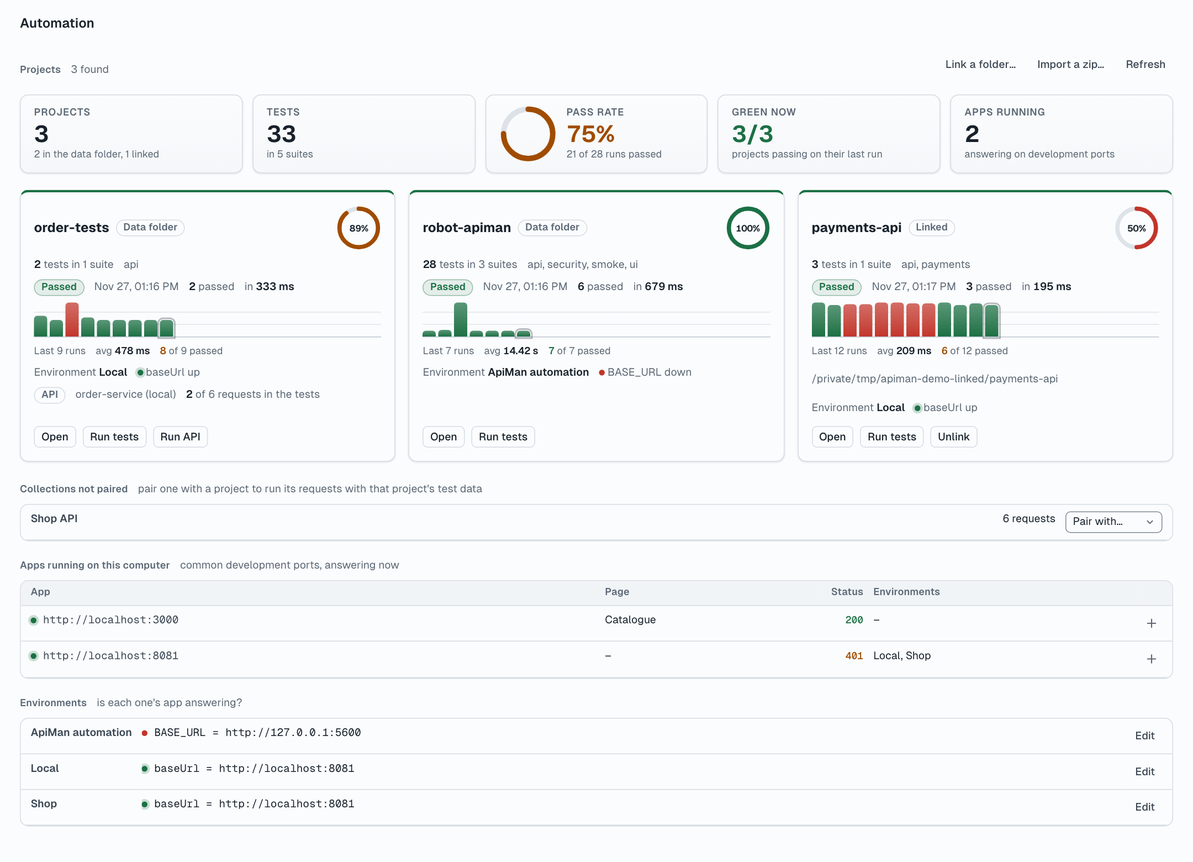
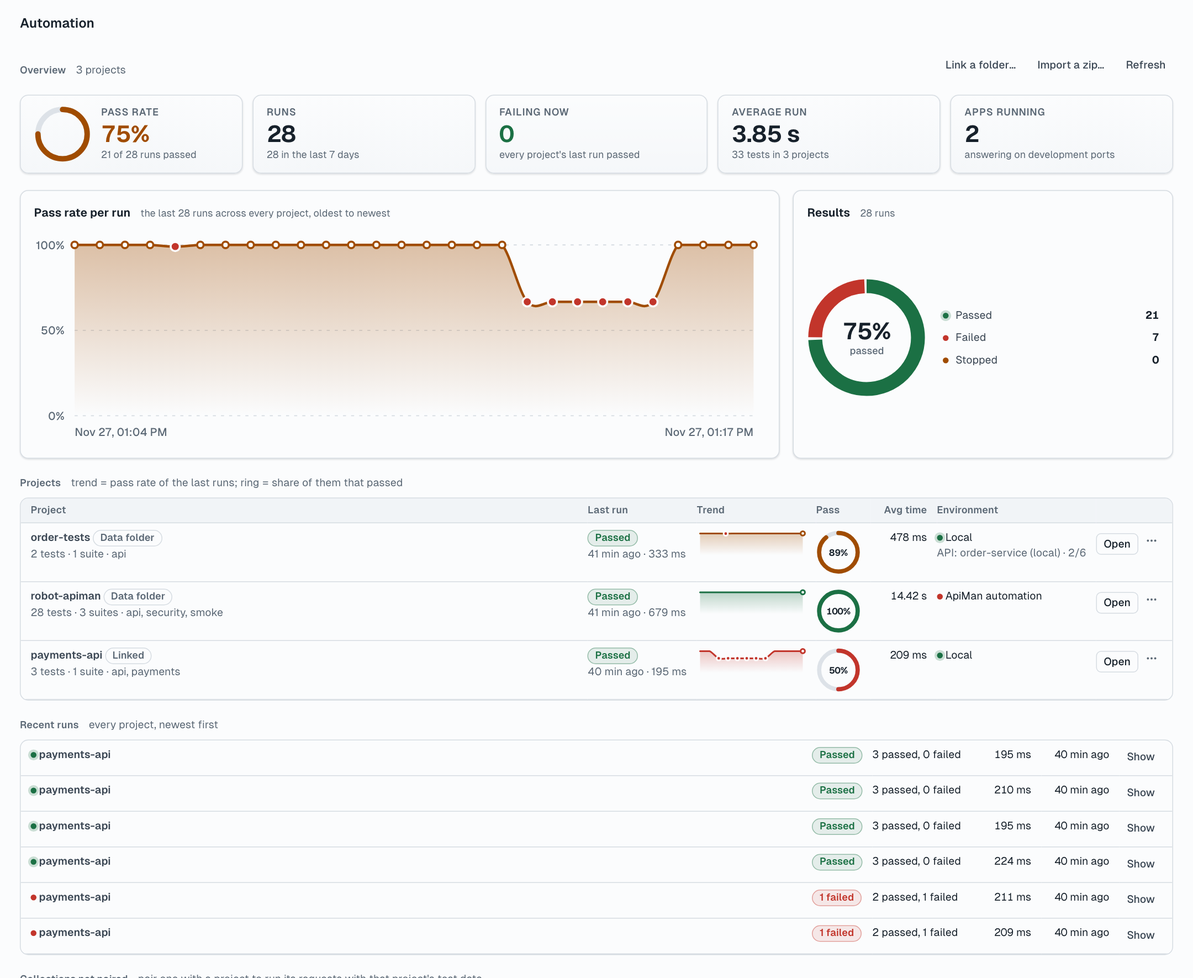
Automation dashboard as an analytics dashboard
- KPI tiles: pass rate (ring), runs (and the last 7 days), failing now, the
  average run, apps running.
- Pass rate per run: an area chart across every project (smooth line over a
  soft gradient, gridlines and axis labels, failures as red points).
- Results: a donut of passed, failed and stopped runs with a legend.
- Projects table: last run, a trend sparkline, a pass-rate ring, average time,
  environment health (+ paired collection); Open and a ... menu (Run tests, Run
  API, Unlink). Recent runs: the latest six across projects, with Show.
- Design system: Plot (area, spark, donut) and Panel components; Table .wide
  (columns from 900 px up). layout-check covers the new dashboard (634 PASS).
- README: a full screenshot of the new dashboard.

diff --git a/app.js b/app.js
@@ -216,8 +216,69 @@ const ui = {
       h('span', { class: cx('stat-value', toneOf(tone)) }, String(value)), sub ? h('span', { class: 'stat-sub', title: sub }, sub) : null));
   },
   stats(...tiles) { return h('div', { class: 'stats' }, ...tiles.flat().filter(Boolean)); },
+  /** Plot: an area chart of shares (0..1) oldest to newest: a smooth line over a soft fill, gridlines at 0/50/100%,
+   *  a point per value (failures stand out). points: [{ value, tone, title }]; xLabels: [first, last]. */
+  area(points, { label = '', tone = '', xLabels = [] } = {}) {
+    const W = 720, H = 210, L = 40, Rt = 12, T = 14, B = 28, n = points.length;
+    const x = (i) => L + (W - L - Rt) * (n === 1 ? 0.5 : i / (n - 1)), y = (v) => T + (H - T - B) * (1 - Math.max(0, Math.min(1, v)));
+    const pts = points.map((p, i) => [x(i), y(p.value)]);
+    const d = smoothPath(pts, T, H - B), gid = `pg${uid().replace(/\W/g, '').slice(0, 10)}`;
+    const grid = [0, 0.5, 1].map((v) => `<line class="gridline" x1="${L}" x2="${W - Rt}" y1="${y(v)}" y2="${y(v)}"/><text class="axis" x="${L - 10}" y="${y(v) + 4}" text-anchor="end" font-size="11">${Math.round(v * 100)}%</text>`).join('');
+    const xs = xLabels.length ? `<text class="axis" x="${L}" y="${H - 8}" font-size="11">${xmlText(xLabels[0])}</text><text class="axis" x="${W - Rt}" y="${H - 8}" text-anchor="end" font-size="11">${xmlText(xLabels[xLabels.length - 1])}</text>` : '';
+    const fill = n ? `<path class="fill" d="${d} L ${pts[n - 1][0]} ${y(0)} L ${pts[0][0]} ${y(0)} Z" fill="url(#${gid})"/>` : '';
+    const dots = points.map((p, i) => `<circle class="pt ${toneOf(p.tone) || ''}" cx="${pts[i][0]}" cy="${pts[i][1]}" r="${p.tone === 'err' || p.tone === 'warn' ? 4.5 : 3.2}"><title>${xmlText(p.title || '')}</title></circle>`).join('');
+    const el = h('div', { role: 'img', 'aria-label': label || null });
+    el.innerHTML = `<svg class="plot ${toneOf(tone) || ''}" viewBox="0 0 ${W} ${H}"><defs><linearGradient id="${gid}" x1="0" x2="0" y1="0" y2="1"><stop offset="0" stop-color="currentColor" stop-opacity=".34"/><stop offset="1" stop-color="currentColor" stop-opacity="0"/></linearGradient></defs>${grid}${xs}${fill}<path class="line" d="${d}"/>${dots}</svg>`;
+    return el;
+  },
+  /** Plot .spark: a small area trend for a table row; failures marked, the latest dotted. */
+  spark(points, { label = '', tone = '' } = {}) {
+    const W = 132, H = 34, P = 4, n = points.length;
+    const x = (i) => P + (W - 2 * P) * (n === 1 ? 0.5 : i / (n - 1)), y = (v) => P + (H - 2 * P) * (1 - Math.max(0, Math.min(1, v)));
+    const pts = points.map((p, i) => [x(i), y(p.value)]);
+    const d = smoothPath(pts, P, H - P), gid = `ps${uid().replace(/\W/g, '').slice(0, 10)}`;
+    const marks = points.map((p, i) => (p.tone === 'err' || p.tone === 'warn' || i === n - 1 ? `<circle class="pt ${toneOf(p.tone) || ''}" cx="${pts[i][0]}" cy="${pts[i][1]}" r="2.6"><title>${xmlText(p.title || '')}</title></circle>` : '')).join('');
+    const el = h('span', { role: 'img', 'aria-label': label || null, title: label || null });
+    el.innerHTML = `<svg class="plot spark ${toneOf(tone) || ''}" viewBox="0 0 ${W} ${H}"><defs><linearGradient id="${gid}" x1="0" x2="0" y1="0" y2="1"><stop offset="0" stop-color="currentColor" stop-opacity=".28"/><stop offset="1" stop-color="currentColor" stop-opacity="0"/></linearGradient></defs>${n ? `<path class="fill" d="${d} L ${pts[n - 1][0]} ${H - P} L ${pts[0][0]} ${H - P} Z" fill="url(#${gid})"/>` : ''}<path class="line" d="${d}"/>${marks}</svg>`;
+    return el;
+  },
+  /** Donut: shares of a whole. segs: [{ value, tone, label }]; center: the big text, caption under it. Returns [donut, legend]. */
+  donut(segs, { center = '', caption = '', label = '' } = {}) {
+    const total = segs.reduce((a, s) => a + (s.value || 0), 0), c = 2 * Math.PI * 15.5;
+    let at = 0;
+    const arcs = segs.filter((s) => s.value > 0).map((s) => {
+      const len = (s.value / total) * c, gap = segs.filter((q) => q.value > 0).length > 1 ? 0.8 : 0;
+      const arc = `<circle class="seg ${toneOf(s.tone) || ''}" cx="18" cy="18" r="15.5" stroke-dasharray="${Math.max(0, len - gap).toFixed(2)} ${(c - len + gap).toFixed(2)}" stroke-dashoffset="${(-at).toFixed(2)}"/>`;
+      at += len;
+      return arc;
+    }).join('');
+    const el = h('span', { class: 'donut', role: 'img', 'aria-label': label || null });
+    el.innerHTML = `<svg viewBox="0 0 36 36" aria-hidden="true">${total ? arcs : '<circle class="seg" cx="18" cy="18" r="15.5"/>'}</svg>`;
+    el.append(h('b', null, center, caption ? h('small', null, caption) : null));
+    const legend = h('div', { class: 'legend' }, ...segs.map((s) => h('div', { class: 'legend-item' }, ui.dot({ tone: s.tone }), s.label, h('b', null, String(s.value)))));
+    return [el, legend];
+  },
+  /** Panel: a titled box for a chart. */
+  panel({ title, sub = '', body = [] }) {
+    return h('section', { class: 'panel' }, h('div', { class: 'panel-head' }, h('strong', null, title), sub ? h('span', null, sub) : null), h('div', { class: 'panel-body' }, ...[body].flat().filter(Boolean)));
+  },
+  panels(...p) { return h('div', { class: 'panels' }, ...p.flat().filter(Boolean)); },
 };
 
+/** Text for inside SVG markup built as a string. */
+const xmlText = (s) => String(s ?? '').replace(/[&<>"]/g, (c) => ({ '&': '&amp;', '<': '&lt;', '>': '&gt;', '"': '&quot;' }[c]));
+/** A smooth line through points (Catmull-Rom as cubic Béziers), its bends kept between top and bottom. */
+function smoothPath(p, top, bottom) {
+  if (!p.length) return '';
+  if (p.length < 3) return p.map((q, i) => `${i ? 'L' : 'M'} ${q[0].toFixed(1)} ${q[1].toFixed(1)}`).join(' ');
+  const cy = (v) => Math.max(top, Math.min(bottom, v));
+  let d = `M ${p[0][0].toFixed(1)} ${p[0][1].toFixed(1)}`;
+  for (let i = 0; i < p.length - 1; i++) {
+    const p0 = p[i - 1] || p[i], p1 = p[i], p2 = p[i + 1], p3 = p[i + 2] || p2;
+    d += ` C ${(p1[0] + (p2[0] - p0[0]) / 6).toFixed(1)} ${cy(p1[1] + (p2[1] - p0[1]) / 6).toFixed(1)} ${(p2[0] - (p3[0] - p1[0]) / 6).toFixed(1)} ${cy(p2[1] - (p3[1] - p1[1]) / 6).toFixed(1)} ${p2[0].toFixed(1)} ${p2[1].toFixed(1)}`;
+  }
+  return d;
+}
 const uid = () => (crypto.randomUUID ? crypto.randomUUID()
   : 'id-' + Math.random().toString(36).slice(2) + Date.now().toString(36));
 
@@ -6963,76 +7024,94 @@ async function openAutomation() {
       return id && !id.startsWith('file:') ? state.envs[id] : null;
     };
     const runDur = (x) => (x.ended && x.started ? Math.max(0, Math.round((x.ended - x.started) * 1000)) : 0);
-    const card = (r) => {
+    const ago = (ts) => { const sec = Math.max(0, Date.now() / 1000 - (ts || 0)); return sec < 60 ? 'just now' : sec < 3600 ? `${Math.round(sec / 60)} min ago` : sec < 86400 ? `${Math.round(sec / 3600)} h ago` : `${Math.round(sec / 86400)} d ago`; };
+    const shareOf = (x) => { const n = (x.passed || 0) + (x.failed || 0); return n ? (x.passed || 0) / n : 0; };
+    const rateTone = (f) => (f === 1 ? 'ok' : f >= 0.7 ? 'warn' : 'err');
+    const resultPill = (x) => ui.pill(x.status === 'passed' ? 'Passed' : x.status === 'stopped' ? 'Stopped' : x.failed ? `${x.failed} failed` : 'Error', runTone(x.status));
+    /** One project as a table row: what it is, its last run, its trend, pass rate, average time, environment, actions. */
+    const projectRow = (r) => {
       const last = r.runs.find((x) => x.status !== 'running');
       const running = r.runs.find((x) => x.status === 'running');
       const env = envFor(r);
       const urls = envUrls(env);
       const runs = r.runs.filter((x) => x.status !== 'running').slice(0, 20).reverse();
       const passedN = runs.filter((x) => x.status === 'passed').length;
-      const share = runs.length ? passedN / runs.length : 0;
-      const maxDur = Math.max(1, ...runs.map(runDur));
-      const avgDur = runs.length ? Math.round(runs.reduce((a, x) => a + runDur(x), 0) / runs.length) : 0;
-      return ui.card({
-        title: r.name,
-        tone: running ? 'warn' : last ? runTone(last.status) : '',
-        badge: ui.pill(r.linked ? 'Linked' : 'Data folder', 'muted'),
-        dot: running ? ui.dot({ tone: 'warn', label: 'Running now' }) : null,
-        ring: !running && runs.length ? ui.ring(share, { tone: share === 1 ? 'ok' : share >= 0.7 ? 'warn' : 'err', label: `${passedN} of ${runs.length} recent runs passed` }) : null,
-        body: [
-          r.error ? ui.note(r.error, 'err') : ui.meta([
-            h('span', null, ui.value(String(r.tests || 0)), ` test${(r.tests || 0) === 1 ? '' : 's'} in ${r.suites || 0} suite${(r.suites || 0) === 1 ? '' : 's'}`),
-            r.tags && r.tags.length ? h('span', null, r.tags.slice(0, 4).join(', ')) : null,
-          ].filter(Boolean)),
-          last ? ui.meta([h('span', null, ui.pill(last.status === 'passed' ? 'Passed' : last.status === 'stopped' ? 'Stopped' : last.failed ? `${last.failed} failed` : 'Error', runTone(last.status))),
-            h('span', null, fmtWhen(last.started)), h('span', null, ui.value(String(last.passed || 0)), ' passed'), runDur(last) ? h('span', null, 'in ', ui.value(fmtMs(runDur(last)))) : null].filter(Boolean)) : ui.hint('Not run yet.'),
-          // each bar a run: its height how long it took, its colour how it ended (so a flat green run of passes still tells you something)
-          runs.length > 1 ? ui.chart(runs.map((x, i) => ({ value: Math.max(0.16, Math.sqrt(runDur(x) / maxDur)), /* square root: one slow run doesn't flatten the rest */ tone: runTone(x.status), on: i === runs.length - 1,
-            title: `${fmtWhen(x.started)}: ${x.status}, ${x.passed || 0} passed, ${x.failed || 0} failed, ${fmtMs(runDur(x))}` })), { small: true, label: `Last ${runs.length} runs: duration and result` }) : null,
-          runs.length > 1 ? ui.meta([h('span', null, `Last ${runs.length} runs`), h('span', null, 'avg ', ui.value(fmtMs(avgDur))), h('span', null, ui.value(String(passedN), share === 1 ? 'ok' : 'warn'), ` of ${runs.length} passed`)]) : null,
-          r.linked ? ui.path(r.path) : null,
-          env ? ui.meta([h('span', null, 'Environment ', ui.value(env.name)), ...urls.slice(0, 2).map((u) => {
-            const c = up.get(u.url);
-            return h('span', { title: u.url }, ui.dot({ tone: c && c.up ? 'ok' : 'err', label: c && c.up ? 'Answering' : 'Not answering' }), ` ${u.key} ${c && c.up ? 'up' : 'down'}`);
-          })]) : ui.hint(r.keys && r.keys.length ? `Needs ${r.keys.slice(0, 4).join(', ')}: pick an environment when you open it.` : 'Needs no environment.'),
-          pairs.get(r.id) ? ui.meta([h('span', null, ui.pill('API', 'muted')), h('span', null, (state.colList.find((c) => c.id === pairs.get(r.id).cid) || {}).name || ''),
-            h('span', null, ui.value(String(pairs.get(r.id).covered.size)), ` of ${pairs.get(r.id).total} requests in the tests`)]) : null,
-        ].filter(Boolean),
-        actions: [
+      const f = runs.length ? passedN / runs.length : 0;
+      const avg = runs.length ? Math.round(runs.reduce((a, x) => a + runDur(x), 0) / runs.length) : 0;
+      const pr = pairs.get(r.id);
+      const envUp = urls.length > 0 && urls.every((u) => (up.get(u.url) || {}).up);
+      return h('tr', null,
+        h('td', { class: 'clip', title: r.linked ? `${r.name}: ${r.path}` : r.name }, h('div', null, r.name, ' ', ui.pill(r.linked ? 'Linked' : 'Data folder', 'muted')),
+          h('div', { class: 'hint' }, r.error || `${r.tests || 0} test${(r.tests || 0) === 1 ? '' : 's'} · ${r.suites || 0} suite${(r.suites || 0) === 1 ? '' : 's'}${r.tags && r.tags.length ? ` · ${r.tags.slice(0, 3).join(', ')}` : ''}`)),
+        h('td', { class: 'tight' }, running ? ui.pill('Running', 'warn') : last ? resultPill(last) : ui.pill('Not run', 'muted'),
+          last ? h('div', { class: 'hint' }, `${ago(last.started)}${runDur(last) ? ` · ${fmtMs(runDur(last))}` : ''}`) : null),
+        h('td', { class: 'wide' }, runs.length > 1 ? ui.spark(runs.map((x) => ({ value: shareOf(x), tone: runTone(x.status), title: `${fmtWhen(x.started)}: ${x.passed || 0} passed, ${x.failed || 0} failed` })),
+          { tone: rateTone(f), label: `Pass rate of the last ${runs.length} runs` }) : ui.hint('–')),
+        h('td', { class: 'tight' }, runs.length ? ui.ring(f, { tone: rateTone(f), label: `${passedN} of ${runs.length} recent runs passed` }) : ui.hint('–')),
+        h('td', { class: 'num wide' }, runs.length ? fmtMs(avg) : '–'),
+        h('td', { class: 'tight wide' }, env ? h('div', null, ui.dot({ tone: envUp ? 'ok' : 'err', label: envUp ? 'Answering' : 'Not answering' }), ' ', env.name) : ui.hint('No environment'),
+          pr ? h('div', { class: 'hint' }, `API: ${(state.colList.find((c) => c.id === pr.cid) || {}).name || ''} · ${pr.covered.size}/${pr.total}`) : null),
+        h('td', { class: 'tight' },
           ui.button({ label: running ? 'Show run' : 'Open', size: 'small', onClick: () => openProject(r.id).then(() => running && follow(running.id)).catch((e) => toast(e.message, 'err')) }),
-          running || anyRunning || r.error ? null : ui.button({ label: 'Run tests', size: 'small', title: 'Run this project\'s Robot Framework tests', onClick: () => openProject(r.id, true).catch((e) => toast(e.message, 'err')) }),
-          running || anyRunning || r.error || !pairs.get(r.id) ? null : ui.button({ label: 'Run API', size: 'small', title: 'Run the paired collection with this project\'s test data',
-            onClick: () => openProject(r.id).then(() => loadSuiteDataNow()).then(() => runSuite()).catch((e) => toast(e.message, 'err')) }),
-          r.linked ? ui.button({ label: 'Unlink', size: 'small', onClick: async () => {
-            try { await api('DELETE', `/api/robot/links/${encodeURIComponent(r.id)}`); } catch (e) { toast(e.message, 'err'); return; }
-            toast(`Unlinked ${r.name}: its folder and runs are untouched.`, 'muted');
-            await renderDashboard();
-          } }) : null,
-        ].filter(Boolean),
-      });
+          ' ',
+          ui.iconButton('dots', `More for ${r.name}`, (e) => showMenu(e.currentTarget, [
+            running || anyRunning || r.error ? null : { label: 'Run tests', onClick: () => openProject(r.id, true).catch((err) => toast(err.message, 'err')) },
+            running || anyRunning || r.error || !pr ? null : { label: 'Run API (the paired collection with this project\'s test data)', onClick: () => openProject(r.id).then(() => loadSuiteDataNow()).then(() => runSuite()).catch((err) => toast(err.message, 'err')) },
+            r.linked ? { label: 'Unlink', onClick: async () => {
+              try { await api('DELETE', `/api/robot/links/${encodeURIComponent(r.id)}`); } catch (err) { toast(err.message, 'err'); return; }
+              toast(`Unlinked ${r.name}: its folder and runs are untouched.`, 'muted');
+              await renderDashboard();
+            } } : null,
+          ].filter(Boolean)), { size: 'small', 'aria-haspopup': 'menu' })));
     };
     const appRows = scan.filter((a) => a.up);
     dash.replaceChildren(...[
-      ui.toolbar([ui.sectionHead('Projects', rows.length ? `${rows.length} found` : null, null)], [
+      ui.toolbar([ui.sectionHead('Overview', rows.length ? `${rows.length} project${rows.length === 1 ? '' : 's'}` : null, null)], [
         ui.button({ label: 'Link a folder…', variant: 'ghost', size: 'small', onClick: () => { linkForm.hidden = false; linkIn.focus(); } }),
         ui.button({ label: 'Import a zip…', variant: 'ghost', size: 'small', onClick: () => zipIn.click() }),
         ui.button({ label: 'Refresh', variant: 'ghost', size: 'small', onClick: () => renderDashboard().catch((e) => toast(e.message, 'err')) })]),
       linkForm, zipIn,
       rows.length ? (() => {
         const rate = allRuns.length ? passedRuns / allRuns.length : 0;
-        const rateTone = !allRuns.length ? 'muted' : rate === 1 ? 'ok' : rate >= 0.7 ? 'warn' : 'err';
-        const green = lastRuns.filter((x) => x.status === 'passed').length;
-        const linked = rows.filter((r) => r.linked).length;
-        const suites = rows.reduce((a, r) => a + (r.suites || 0), 0);
+        const tone = !allRuns.length ? 'muted' : rateTone(rate);
+        const failingNow = rows.filter((r) => { const l = r.runs.find((x) => x.status !== 'running'); return l && l.status !== 'passed'; });
+        const week = allRuns.filter((x) => Date.now() / 1000 - (x.started || 0) < 7 * 86400).length;
+        const avgAll = allRuns.length ? Math.round(allRuns.reduce((a, x) => a + runDur(x), 0) / allRuns.length) : 0;
         return ui.stats(
-          ui.stat({ label: 'Projects', value: rows.length, sub: linked ? `${rows.length - linked} in the data folder, ${linked} linked` : 'in the data folder' }),
-          ui.stat({ label: 'Tests', value: tests, sub: `in ${suites} suite${suites === 1 ? '' : 's'}` }),
-          ui.stat({ label: 'Pass rate', value: allRuns.length ? `${Math.round(rate * 100)}%` : '–', tone: rateTone, sub: `${passedRuns} of ${allRuns.length} runs passed`,
-            ring: allRuns.length ? ui.ring(rate, { tone: rateTone, large: true, text: false, label: 'Runs passing' }) : null }),
-          ui.stat({ label: 'Green now', value: `${green}/${lastRuns.length}`, tone: lastRuns.length && green === lastRuns.length ? 'ok' : lastRuns.length ? 'warn' : '', sub: 'projects passing on their last run' }),
+          ui.stat({ label: 'Pass rate', value: allRuns.length ? `${Math.round(rate * 100)}%` : '–', tone, sub: `${passedRuns} of ${allRuns.length} runs passed`,
+            ring: allRuns.length ? ui.ring(rate, { tone, large: true, text: false, label: 'Runs passing' }) : null }),
+          ui.stat({ label: 'Runs', value: allRuns.length, sub: `${week} in the last 7 days` }),
+          ui.stat({ label: 'Failing now', value: failingNow.length, tone: failingNow.length ? 'err' : 'ok', sub: failingNow.length ? failingNow.map((r) => r.name).join(', ') : "every project's last run passed" }),
+          ui.stat({ label: 'Average run', value: allRuns.length ? fmtMs(avgAll) : '–', sub: `${tests} tests in ${rows.length} project${rows.length === 1 ? '' : 's'}` }),
           ui.stat({ label: 'Apps running', value: appRows.length, sub: 'answering on development ports' }));
       })() : null,
-      rows.length ? h('div', { class: 'cards' }, ...rows.map(card)) : ui.emptyPane({
+      allRuns.length ? (() => {
+        const timeline = rows.flatMap((r) => r.runs.filter((x) => x.status !== 'running').map((x) => ({ ...x, project: r.name }))).sort((a, b) => (a.started || 0) - (b.started || 0)).slice(-40);
+        const n = (st) => allRuns.filter((x) => (st === 'failed' ? x.status !== 'passed' && x.status !== 'stopped' : x.status === st)).length;
+        const rate = passedRuns / allRuns.length;
+        return ui.panels(
+          ui.panel({ title: 'Pass rate per run', sub: `the last ${timeline.length} runs across every project, oldest to newest`,
+            body: ui.area(timeline.map((x) => ({ value: shareOf(x), tone: runTone(x.status), title: `${x.project}, ${fmtWhen(x.started)}: ${x.passed || 0} passed, ${x.failed || 0} failed, ${fmtMs(runDur(x))}` })),
+              { tone: rateTone(rate), label: 'Pass rate per run', xLabels: [fmtWhen(timeline[0].started), fmtWhen(timeline[timeline.length - 1].started)] }) }),
+          ui.panel({ title: 'Results', sub: `${allRuns.length} runs`, body: ui.donut([
+            { value: n('passed'), tone: 'ok', label: 'Passed' }, { value: n('failed'), tone: 'err', label: 'Failed' }, { value: n('stopped'), tone: 'warn', label: 'Stopped' }],
+            { center: `${Math.round(rate * 100)}%`, caption: 'passed', label: 'Runs by result' }) }));
+      })() : null,
+      rows.length ? ui.sectionHead('Projects', 'trend = pass rate of the last runs; ring = share of them that passed', null) : null,
+      rows.length ? h('table', { class: 'grid boxed' }, h('thead', null, h('tr', null, h('th', null, 'Project'), h('th', null, 'Last run'), h('th', { class: 'wide' }, 'Trend'),
+        h('th', { class: 'tight' }, 'Pass'), h('th', { class: 'num wide' }, 'Avg time'), h('th', { class: 'wide' }, 'Environment'), h('th', { class: 'tight' }, ''))),
+        h('tbody', null, ...rows.map(projectRow))) : null,
+      allRuns.length ? ui.sectionHead('Recent runs', 'every project, newest first', null) : null,
+      allRuns.length ? h('table', { class: 'grid boxed' }, h('tbody', null, ...rows.flatMap((r) => r.runs.filter((x) => x.status !== 'running').map((x) => ({ ...x, pid: r.id, project: r.name })))
+        .sort((a, b) => (b.started || 0) - (a.started || 0)).slice(0, 6).map((x) => h('tr', null,
+          h('td', { class: 'clip', title: x.project }, ui.dot({ tone: runTone(x.status), label: x.status }), ' ', x.project),
+          h('td', null, resultPill(x)),
+          h('td', { class: 'tight wide' }, `${x.passed || 0} passed, ${x.failed || 0} failed${x.skipped ? `, ${x.skipped} skipped` : ''}${x.http ? ` · ${x.http} API calls` : ''}`),
+          h('td', { class: 'tight wide' }, x.env || ''),
+          h('td', { class: 'num' }, fmtMs(runDur(x))),
+          h('td', { class: 'num wide' }, ago(x.started)),
+          h('td', { class: 'tight' }, ui.button({ label: 'Show', variant: 'ghost', size: 'small', onClick: () => openProject(x.pid).then(() => follow(x.id, true)).catch((e) => toast(e.message, 'err')) })))))) : null,
+      rows.length ? null : ui.emptyPane({
         icon: 'folder', title: 'No Robot Framework project yet',
         text: 'Link a project folder from anywhere on this computer, import a zip, or put a project in your data folder. ApiMan finds its suites, tests, tags, test data and the environment keys it needs.',
         actions: [ui.button({ label: 'Link a folder…', size: 'small', onClick: () => { linkForm.hidden = false; linkIn.focus(); } }), ui.button({ label: 'Import a zip…', size: 'small', onClick: () => zipIn.click() })],

diff --git a/app.css b/app.css
@@ -396,6 +396,7 @@ table.grid.boxed { border: 1px solid var(--line); border-radius: var(--r-lg); bo
 table.grid td.clip { max-width: 0; width: 100%; white-space: nowrap; overflow: hidden; text-overflow: ellipsis; } /* takes the room left, cut, the whole text in title */
 table.grid tr.on td { background: var(--select); } /* the selected row (API calls) */
 table.grid .tight select { max-width: calc(var(--s6) * 7); }
+@media (max-width: 900px) { table.grid .wide { display: none; } } /* detail a narrow window can do without */
 @media (max-width: 600px) { table.grid td:first-child { white-space: normal; overflow-wrap: anywhere; } }
 table.grid.boxed th { height: var(--row-h); background: var(--hover); vertical-align: middle; padding-top: 0; padding-bottom: 0; }
 table.grid.boxed th:first-child, table.grid.boxed td:first-child { padding-left: var(--s3); }
@@ -720,6 +721,38 @@ dialog.drawer.docked { position: fixed; inset: 0 0 0 auto; margin: 0; z-index: 4
 .stat-value { font-size: var(--fs-xl); font-weight: 650; line-height: 1.05; color: var(--ink); font-variant-numeric: tabular-nums; }
 .stat-value.ok { color: var(--ok); } .stat-value.warn { color: var(--warn); } .stat-value.err { color: var(--err); }
 .stat-sub { font-size: var(--fs-xs); color: var(--muted); white-space: nowrap; overflow: hidden; text-overflow: ellipsis; }
+
+/* ===================================================================================== 27 Plot */
+/* Charts drawn as SVG in the tone's colour: an area chart over time, a sparkline, a donut. Sizes come from tokens. */
+.plot { display: block; width: 100%; height: auto; overflow: visible; color: var(--muted); }
+.plot.ok { color: var(--ok); } .plot.warn { color: var(--warn); } .plot.err { color: var(--err); }
+.plot .line { fill: none; stroke: currentColor; stroke-width: 2.4; stroke-linejoin: round; stroke-linecap: round; }
+.plot .gridline { stroke: var(--line); stroke-width: 1; stroke-dasharray: 3 5; }
+.plot .axis { fill: var(--muted); font-family: var(--font-ui); font-weight: 500; }
+.plot .pt { fill: var(--panel); stroke: currentColor; stroke-width: 2; }
+.plot .pt.err { fill: var(--err); stroke: var(--panel); } .plot .pt.warn { fill: var(--warn); stroke: var(--panel); }
+.plot.spark { width: calc(var(--s6) * 5.5); height: calc(var(--row-h) * 1.15); }
+.plot.spark .line { stroke-width: 2; }
+.donut { position: relative; display: grid; place-items: center; flex: none; width: calc(var(--row-h) * 4.8); height: calc(var(--row-h) * 4.8); }
+.donut svg { position: absolute; inset: 0; width: 100%; height: 100%; transform: rotate(-90deg); }
+.donut circle { fill: none; stroke-width: 4.2; }
+.donut .seg { stroke: var(--muted); } .donut .seg.ok { stroke: var(--ok); } .donut .seg.warn { stroke: var(--warn); } .donut .seg.err { stroke: var(--err); }
+.donut b { position: relative; display: grid; text-align: center; font-size: var(--fs-xl); font-weight: 650; line-height: 1; color: var(--ink); font-variant-numeric: tabular-nums; }
+.donut b small { margin-top: var(--s1); font-size: var(--fs-xs); font-weight: 500; color: var(--muted); }
+.legend { display: flex; flex-direction: column; gap: var(--s2); min-width: 0; flex: 1; }
+.legend-item { display: flex; align-items: center; gap: var(--s2); font-size: var(--fs-sm); color: var(--ink-2); }
+.legend-item b { margin-left: auto; color: var(--ink); font-variant-numeric: tabular-nums; }
+
+/* ===================================================================================== 28 Panel */
+/* A titled box for a chart: the dashboard's analytics row (a wide and a narrow panel). */
+.panels { display: grid; grid-template-columns: minmax(0, 2fr) minmax(0, 1fr); gap: var(--s4); margin-bottom: var(--s5); }
+@media (max-width: 900px) { .panels { grid-template-columns: minmax(0, 1fr); } }
+.panel { min-width: 0; display: flex; flex-direction: column; padding: var(--s4); border: 1px solid var(--line); border-radius: var(--r-lg); background: var(--panel); box-shadow: var(--shadow-sm); }
+.panel-head { display: flex; align-items: baseline; flex-wrap: wrap; gap: var(--s1) var(--s3); margin-bottom: var(--s3); }
+.panel-head strong { font-size: var(--fs-md); font-weight: 650; color: var(--ink); }
+.panel-head span { font-size: var(--fs-xs); color: var(--muted); }
+.panel-body { flex: 1; display: flex; align-items: center; gap: var(--s5); min-width: 0; }
+.panel-body > :only-child { flex: 1; min-width: 0; } /* a chart alone takes the panel's width */
 
 /* ===================================================================================== regions (layout only) */
 .sr-only { position: absolute; width: 1px; height: 1px; overflow: hidden; clip: rect(0 0 0 0); white-space: nowrap; padding: 0; margin: 0; }

diff --git a/DESIGN.md b/DESIGN.md
@@ -54,7 +54,7 @@ Each row: the root class, its variants (modifiers), its parts, and the `ui.*` fu
 | 12 | **TreeRow** | `.row` · `.collection` · state `.on` `.menu-open` | `.caret` (`.open`), `.folder-ico`, `.name`, `.sub`, `.time`, `.acts` | `rowActs()`, tree renderers, `categoryNodes()` (data-folder categories: caret, `.folder-ico`, name, `.sub` count) |
 | 13 | **ResultRow** | `.test-row` · `.compact` | Pill, name, `.msg` | `ui.result()` |
 | 14 | **Log** | `.console` · `.scroll` (a live log: fixed height, scrolls) | `.line` (tone), `.src` | `ui.logLine()` |
-| 15 | **Table** | `table.kv` (editable key/value) · `table.grid` (read-only) · `.boxed` | `.chk` `.type` `.act` `.file-pick` `.fname` · `.num` `.tight` `.v` `.r` `.mono` · `.clip` (a long URL or path: one line, cut, the whole text in `title`; never spills past the table) · rows `.off` `.ghost` `.on` (selected) | `kvTable()`, `ui.table()` |
+| 15 | **Table** | `table.kv` (editable key/value) · `table.grid` (read-only) · `.boxed` | `.chk` `.type` `.act` `.file-pick` `.fname` · `.num` `.tight` `.v` `.r` `.mono` · `.clip` (a long URL or path: one line, cut, the whole text in `title`; never spills past the table) · `.wide` (a column shown only from 900 px up: detail a narrow window can do without) · rows `.off` `.ghost` `.on` (selected) | `kvTable()`, `ui.table()` |
 | 16 | **CodeView** | `.code-editor` · `.short` `.fill` `.readonly` `.codegen` · `pre.out` · `.line-diff` · `.preview` (`.tall`: most of the window, for Robot's report and log) · `.docs-preview` | `.editor-host`, CodeMirror (`CodeMirror*`, `cm-*`), JSON marks `.j-key` `.j-str` `.j-num` `.j-lit`, diff `.n` `.sign`, rows `.del` `.ins` `.gap` | `codeEditor()`, `renderLineDiff()` |
 | 17 | **EmptyState** | `.empty-state` (compact, in lists) · `.fill` (owns a pane: centred icon, title, one line) · `.drop` (drop zone) | `svg`, `strong` title, `p`, shortcuts `dl.keys`, `pre.code-block`, ActionRow | `ui.empty()`, `ui.emptyPane()` |
 | 18 | **Dialog** | `dialog` · `.confirm` `.wide` `.full` (all but a margin of the window: Automation over the API client) · `.full.page` (the whole window, no scrim or frame: Automation's own window) `.drawer` `.docked`; a footer with nothing visible is hidden | `.dlg-shell` `.dlg-head` `.dlg-body` (`.tall`) `.dlg-foot` (`.push-left`) `.dlg-tabs` `.dlg-after` | `openDialog()`, `ask()` |
@@ -66,6 +66,8 @@ Each row: the root class, its variants (modifiers), its parts, and the `ui.*` fu
 | 24 | **Chart** | `.chart` (bars, oldest to newest, on faint gridlines) · `.small` (a run trend inside a Card) · **Ring** `.ring` (a share as a circle: pass rate) · `.large` | one `div` per bar, height = value, tone (`ok` `warn` `err` `muted`) as a soft gradient, `.on` marks the latest, the value in `title`; Ring: `svg` with `.track` and `.arc` (tone), the share in `b` | `ui.chart()`, `ui.ring()` |
 | 25 | **Card** | `.card` in a `.cards` grid (as many columns as fit) · tone (`ok` `warn` `err`: a stripe on top, the last result) | `.card-head` (title, Badge, a trailing Ring or Dot), then Text, Meta, Chart `.small` with a Meta caption, an ActionRow; raised a little, more on hover | `ui.card()` |
 | 26 | **Stat** | `.stats` (a row of tiles, as many as fit) of `.stat` | `.stat-body` with `.stat-label` (small caps), `.stat-value` (a big number, tone) and `.stat-sub` (one line of context); an optional Ring before it | `ui.stat()`, `ui.stats()` |
+| 27 | **Plot** | `svg.plot` (drawn in the tone's colour) · `.spark` (a small trend in a table row) · **Donut** `.donut` (shares of a whole) | Plot: `.gridline`, `.axis` labels, `.fill` (a soft gradient under the line), `.line` (smooth), `.pt` per value (tone: failures stand out), the value in `title`; Donut: `svg` with one `.seg` per share (tone), the total in `b`, a `.legend` of `.legend-item` (Dot, name, value) | `ui.area()`, `ui.spark()`, `ui.donut()` |
+| 28 | **Panel** | `.panels` (a wide and a narrow column; one on a phone) of `.panel` | `.panel-head` (title, one line of context), `.panel-body` (a Plot, a Donut and its legend) | `ui.panel()`, `ui.panels()` |
 
 ### Buttons: which one
 

diff --git a/README.md b/README.md
@@ -60,11 +60,11 @@ calls are listed beside it.
 
 ![A Robot Framework UI test running in ApiMan's Automation window: the live browser on the left, the steps on the right](docs/images/automation-live.png)
 
-**The Automation dashboard.** The numbers that matter on top (projects, tests, pass rate, what's green now, apps running),
-then every project: its pass-rate ring, last result, a trend of recent runs (each bar's height is how long the run took,
-its colour how it ended), its environment's health and its paired collection.
+**The Automation dashboard.** Your test health at a glance: pass rate, runs, what's failing now, average run time and
+the apps running on this computer; the pass rate of every run over time (failures in red) and runs by result; every
+project with its last run, a trend sparkline, its pass rate and its environment's health; and the latest runs.
 
-![The Automation dashboard: summary tiles with the pass rate, project cards with a pass-rate ring and a trend of recent runs (height = duration, colour = result), unpaired collections, running apps and environment health](docs/images/automation-dashboard.png)
+![The Automation dashboard: KPI tiles, a pass-rate-per-run area chart, a results donut, a projects table with sparklines and pass-rate rings, and the recent runs](docs/images/automation-dashboard.png)
 
 **A collection as a test suite.** The order-service collection, paired with its Robot project. Each request finds its
 test data (`login.csv`, `list-products.csv`, ...) and which fields that data fills. 108 cases run from one click.
